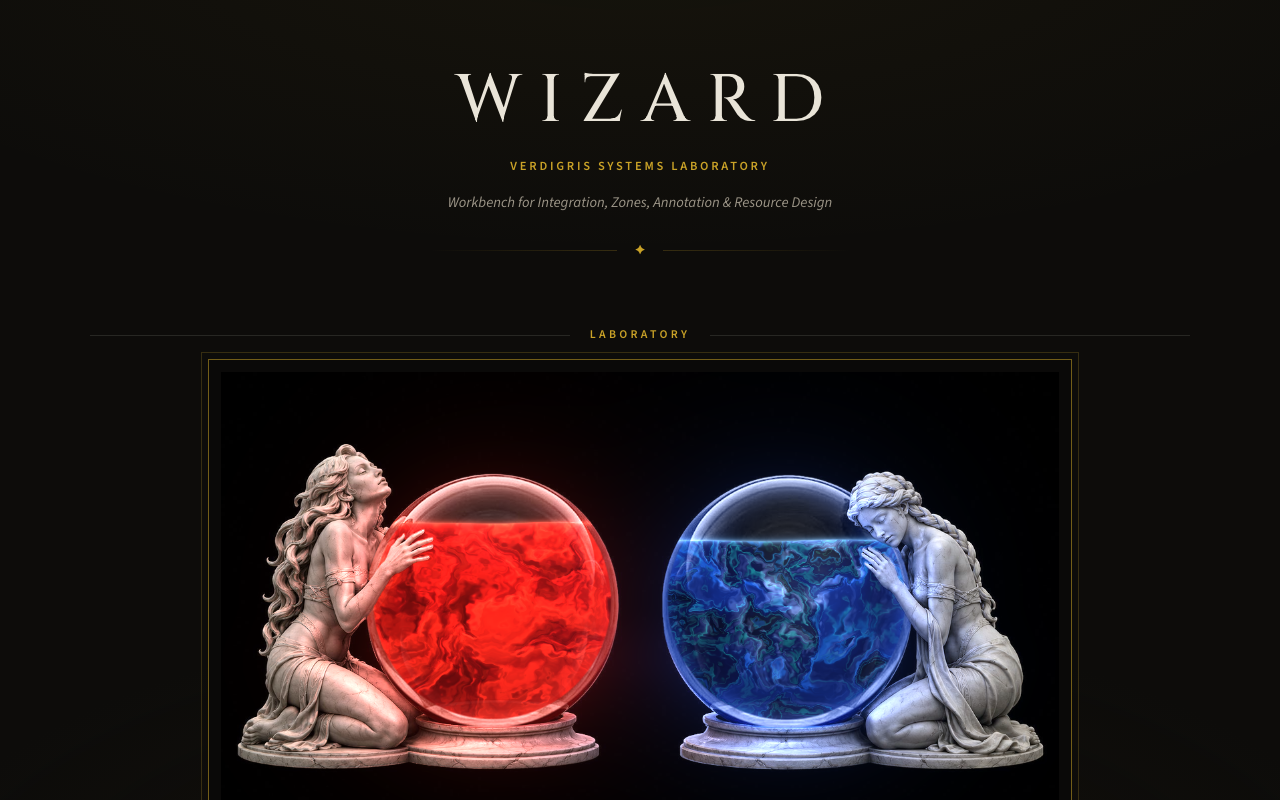
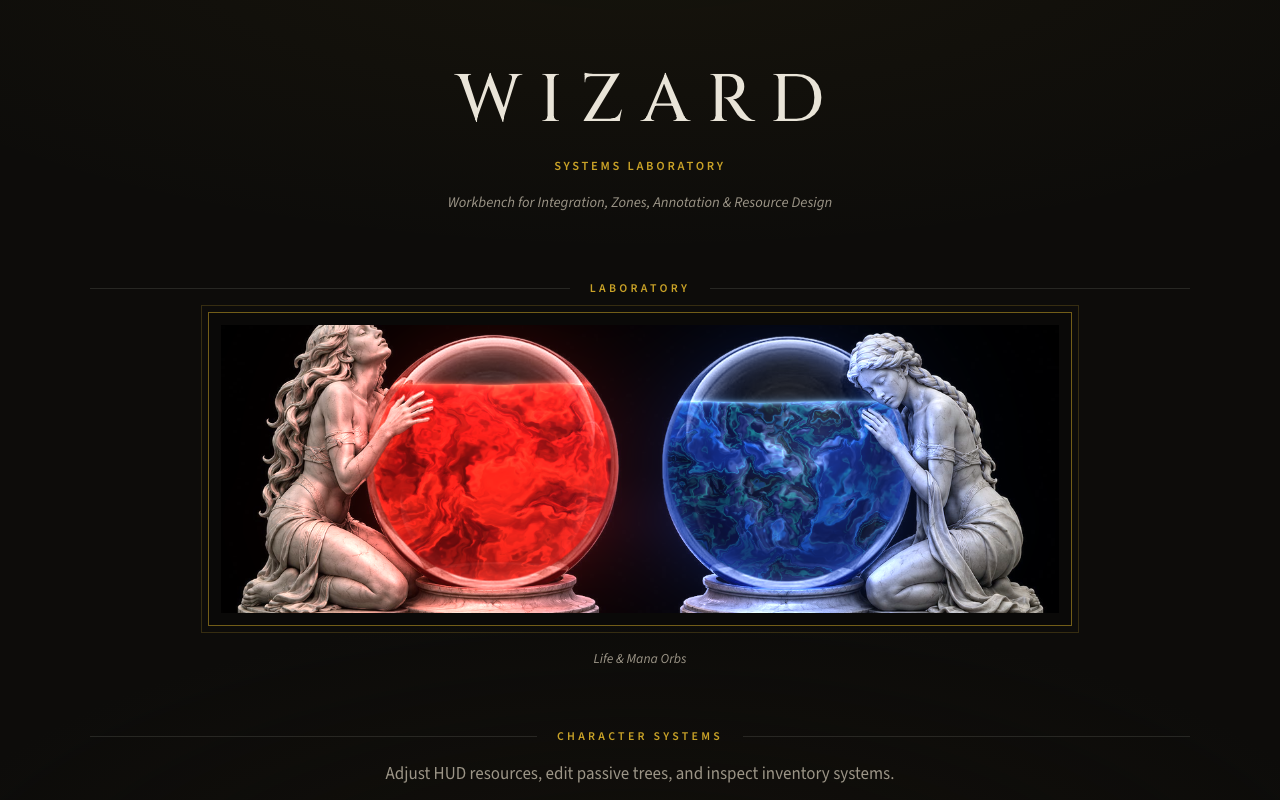
Fix the two failing WIZARD checks; record the owner's 2026-11-09 rulings
- first-screen: the dashboard hero image is capped at 36vh, so the module grid starts above
  the fold at 1280x800 (703px; was 887px, INC-W006). Identity checks (first-screen, verify,
  deploy smoke) look for 'Systems Laboratory'; the share meta tags drop 'Verdigris' (rule 47).
- markdown evidence: MODULE_CAPABILITY_AUDIT.md links the cartographer export button at its
  current line; the check now runs in verify --full.
- OWNER-RULES: no iron in any form for now, riveted mail included (rule 12); no runes,
  hexagons or drawn figures in auras (rule 13); rule 52 crafting follows the PoE blueprint
  adapted, brands and bonds instead of prefixes and suffixes, provisional system, no pre-made
  set or unique items, items tied to houses as relics.

diff --git a/index.html b/index.html
@@ -4,16 +4,16 @@
 <meta charset="UTF-8">
 <meta name="viewport" content="width=device-width, initial-scale=1.0">
 <title>WIZARD — Systems Laboratory</title>
-<meta name="description" content="WIZARD is the Verdigris Systems Laboratory: static calibration, authoring, presentation, and integration tools for HUD resources, the passive tree, itemization, zones, and world presentation.">
+<meta name="description" content="WIZARD is a systems laboratory: static calibration, authoring, presentation, and integration tools for HUD resources, the passive tree, itemization, zones, and world presentation.">
 <link rel="canonical" href="https://alexkorol.github.io/WIZARD/">
-<meta property="og:title" content="WIZARD — Verdigris Systems Laboratory">
+<meta property="og:title" content="WIZARD — Systems Laboratory">
 <meta property="og:description" content="Tools for maps, inventory, passive trees, HUD resources, and UI testing.">
 <meta property="og:type" content="website">
 <meta property="og:url" content="https://alexkorol.github.io/WIZARD/">
 <meta property="og:image" content="https://alexkorol.github.io/WIZARD/tools/wizard_orbs/screenshots/shot_hero.png">
 <meta name="twitter:card" content="summary_large_image">
-<meta name="twitter:title" content="WIZARD — Verdigris Systems Laboratory">
-<meta name="twitter:description" content="Static GitHub Pages laboratory for Verdigris calibration, authoring, presentation, and integration.">
+<meta name="twitter:title" content="WIZARD — Systems Laboratory">
+<meta name="twitter:description" content="Static GitHub Pages laboratory for calibration, authoring, presentation, and integration.">
 <meta name="twitter:image" content="https://alexkorol.github.io/WIZARD/tools/wizard_orbs/screenshots/shot_hero.png">
 <meta name="theme-color" content="#0d0c0a">
 <link rel="preconnect" href="https://fonts.googleapis.com">
@@ -172,7 +172,7 @@ a{color:inherit}
   outline-offset:6px;
   margin:8px;
 }
-.plate img{display:block;width:100%;height:auto}
+.plate img{display:block;width:100%;height:auto;max-height:36vh;object-fit:cover;object-position:center}
 .plate-caption{
   margin:1.4rem auto 0;
   text-align:center;

diff --git a/owner-rules/OWNER-RULES.md b/owner-rules/OWNER-RULES.md
@@ -79,12 +79,26 @@ documents must not restate or contradict these rules.
     and seals. No iron or steel, books, scrolls, paper, glass, lanterns, candles, coins, plate
     armour, closed or crested helmets, longswords, crossbows or later objects in tree text
     and icons. *Why:* "pre-iron age. No 'iron taste' skill, no books and high tech".
-    Open owner questions: item art may still use meteorite-sourced "Hammered Iron"
-    (2026-10-02 ruling), and the Ritualist's "Reliquary" pack (an inventory item name used
+    No iron in any form for now, including "Hammered Iron" and riveted mail (2026-11-09:
+    "Just no iron for now please although we could add meteoric iron at some point. I don't
+    think riveted mail fits either"); meteoric iron comes back only by owner decision.
+    Open owner question: the Ritualist's "Reliquary" pack (an inventory item name used
     by the protected item prompt) is unrenamed, until the owner settles them.
 13. **No pentagram, hexagram, heptagram, pentacle or rune-glyph decoration** (2026-10-16) in
     effects, HUD, items or props; use rings, ticks, dots, light and material. Real runes come
-    later through the spell lattice as a system. *Why:* they read as medieval fantasy.
+    later through the spell lattice as a system. Auras carry no runes, hexagons or other
+    drawn geometric figures at all (2026-11-09: "no runes and no hexagons and other stuff for
+    auras, to keep the pre-medieval vibe"). *Why:* they read as medieval fantasy.
+52. **Crafting follows the PoE blueprint, adapted; loot comes from houses** (2026-11-09).
+    Crafting adopts and adapts PoE1/PoE2 crafting without copying it whole: brands and bonds
+    take the place of prefixes and suffixes. Agents build a temporary, clearly provisional
+    system; the owner tunes it in playtest. There are no pre-made set or unique items: an item
+    becomes special only through a character's development and play. Items are tied to houses
+    as relics and can be found out in the world when a character permadies in battle; loot
+    pools follow from that. *Why:* owner: "I need the ai codes to invent a temporary system for
+    now and I will manually tune it as I playtest"; "no pre-made set or unique items, unless
+    they emerged thru player character development and interaction". (Numbered 52 to keep
+    earlier rule numbers stable.)
 14. **New places are proposals until approved** (2026-10-01). Test-slice stand-ins (pasture,
     slate village, rock-cut cellars) are not canon. *Why:* the owner invited new location
     ideas, not extension of placeholders.

diff --git a/docs/MODULE_CAPABILITY_AUDIT.md b/docs/MODULE_CAPABILITY_AUDIT.md
@@ -44,7 +44,7 @@ Negative grades were checked against each launch's actual script loads and regis
 ### A2. Cartographer
 
 - **Retained claim:** every capability is false in [`wizard.module.json`](../tools/cartographer/wizard.module.json); scenarios, annotations, and time control remain explicitly unsupported.
-- **Executable seam:** [`MapGen.generate`](../tools/cartographer/core/mapgen.js#L1662), [`toJSON`](../tools/cartographer/core/mapgen.js#L1707), and [`fromJSON`](../tools/cartographer/core/mapgen.js#L1735) provide deterministic generation and a raw map serialization format. The launch's [`Export JSON` handler](../tools/cartographer/index.html#L1522) calls that core API, but does not register WIZARD state methods.
+- **Executable seam:** [`MapGen.generate`](../tools/cartographer/core/mapgen.js#L1662), [`toJSON`](../tools/cartographer/core/mapgen.js#L1707), and [`fromJSON`](../tools/cartographer/core/mapgen.js#L1735) provide deterministic generation and a raw map serialization format. The launch's [`Export JSON` handler](../tools/cartographer/index.html#L4) calls that core API, but does not register WIZARD state methods.
 - **Test result:** [`core/test.js`](../tools/cartographer/core/test.js#L60) checks same-seed tile/entity determinism and [`JSON round-trip`](../tools/cartographer/core/test.js#L153). It does not test adapter registration, calibration envelopes, scenarios, or snapshots.
 - **Honesty verdict:** all `—` cells are correct. A working JSON download is not `stateExport` until it is connected to the shared adapter contract.
 
